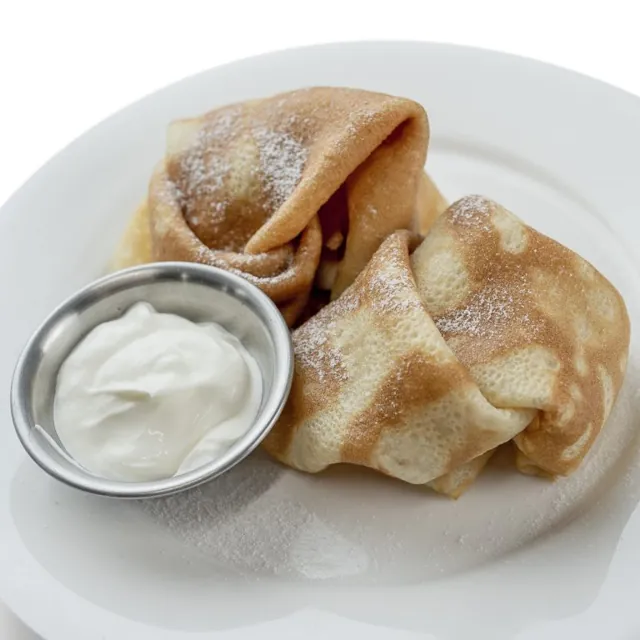
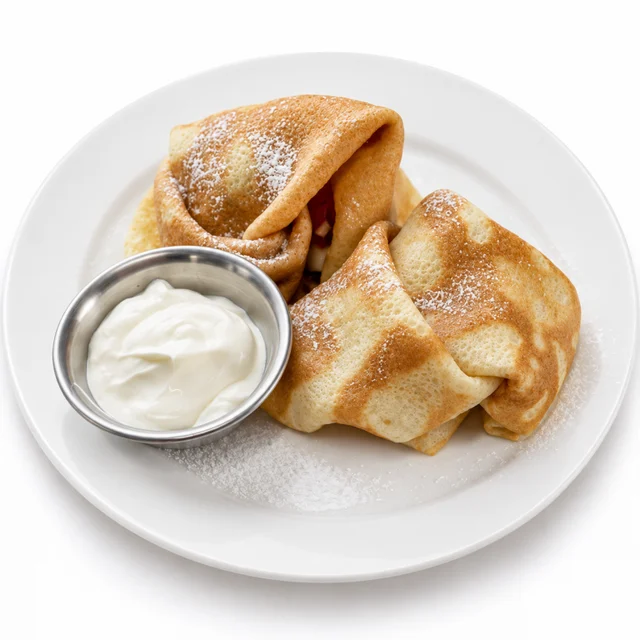
11

diff --git a/menu.html b/menu.html
@@ -402,6 +402,17 @@
           <p class="dish-card__desc">Редис, свежий огурчик, микс салата, томаты черри, куриное яйцо под йогуртовой заправкой</p>
         </div>
       </div>
+      <div class="dish-card">
+        <div class="dish-card__photo"><img src="images/menu/syrnye-makarony.webp" alt="Сырные макароны с колбаской Пепперони" loading="lazy" width="640" height="640"></div>
+        <div class="dish-card__body">
+          <h3 class="dish-card__title">Сырные макароны <small class="dish-card__sub">с колбаской Пепперони</small></h3>
+          <div class="dish-card__meta">
+            <span class="dish-card__price">270 ₽</span>
+            <span class="dish-card__weight">200 г</span>
+          </div>
+          <p class="dish-card__desc">Макароны, колбаски Пепперони, сливки, сыр «Чеддер»</p>
+        </div>
+      </div>
     </div>
   </div>
   <div class="menu-category" data-menu-category="holodnye-zakuski" id="holodnye-zakuski">
@@ -419,7 +430,7 @@
         </div>
       </div>
       <div class="dish-card">
-        <div class="dish-card__photo"><img src="images/menu/syrnaya-tarelka.webp" alt="Сырная тарелка" loading="lazy" width="640" height="640"></div>
+        <div class="dish-card__photo"><img src="images/menu/syrnaya-tarelka.webp?v=2" alt="Сырная тарелка" loading="lazy" width="640" height="640"></div>
         <div class="dish-card__body">
           <h3 class="dish-card__title">Сырная тарелка</h3>
           <div class="dish-card__meta">
@@ -430,7 +441,7 @@
         </div>
       </div>
       <div class="dish-card">
-        <div class="dish-card__photo"><img src="images/menu/myasnaya-tarelka.webp" alt="Мясная тарелка" loading="lazy" width="640" height="640"></div>
+        <div class="dish-card__photo"><img src="images/menu/myasnaya-tarelka.webp?v=2" alt="Мясная тарелка" loading="lazy" width="640" height="640"></div>
         <div class="dish-card__body">
           <h3 class="dish-card__title">Мясная тарелка</h3>
           <div class="dish-card__meta">
@@ -441,7 +452,7 @@
         </div>
       </div>
       <div class="dish-card">
-        <div class="dish-card__photo"><img src="images/menu/ovoschnaya-tarelka.webp" alt="Овощная тарелка" loading="lazy" width="640" height="640"></div>
+        <div class="dish-card__photo"><img src="images/menu/ovoschnaya-tarelka.webp?v=2" alt="Овощная тарелка" loading="lazy" width="640" height="640"></div>
         <div class="dish-card__body">
           <h3 class="dish-card__title">Овощная тарелка</h3>
           <div class="dish-card__meta">
@@ -713,9 +724,9 @@
         </div>
       </div>
       <div class="dish-card">
-        <div class="dish-card__photo"><img src="images/menu/rebryshki-v-medovo-gorchichnom-souse.webp" alt="Жареные свиные рёбра с бэби картофелем в соусе и лепёшка роти" loading="lazy" width="640" height="640"></div>
+        <div class="dish-card__photo"><img src="images/menu/zharenye-svinye-rebra.webp" alt="Жареные свиные рёбра с бэби картофелем в соусе и лепёшкой роти" loading="lazy" width="640" height="640"></div>
         <div class="dish-card__body">
-          <h3 class="dish-card__title">Жареные свиные рёбра с бэби картофелем в соусе и лепёшка роти</h3>
+          <h3 class="dish-card__title">Жареные свиные рёбра <small class="dish-card__sub">с бэби картофелем в соусе и лепёшка роти</small></h3>
           <div class="dish-card__meta">
             <span class="dish-card__price">470 ₽</span>
             <span class="dish-card__weight">310/40 г</span>
@@ -869,6 +880,7 @@
             <span class="dish-card__price">400 ₽</span>
             <span class="dish-card__weight">290 г</span>
           </div>
+          <p class="dish-card__desc">Спагетти с беконом и яичным желтком в сливочном соусе</p>
         </div>
       </div>
     </div>
@@ -1041,7 +1053,7 @@
         </div>
       </div>
       <div class="dish-card">
-        <div class="dish-card__photo"><img src="images/menu/sendvich-s-kurinym-file.webp" alt="Сэндвич с куриным филе" loading="lazy" width="640" height="640"></div>
+        <div class="dish-card__photo"><img src="images/menu/sendvich-s-kurinym-file.webp?v=2" alt="Сэндвич с куриным филе" loading="lazy" width="640" height="640"></div>
         <div class="dish-card__body">
           <h3 class="dish-card__title">Сэндвич с куриным филе</h3>
           <div class="dish-card__meta">
@@ -1063,7 +1075,7 @@
         </div>
       </div>
       <div class="dish-card">
-        <div class="dish-card__photo"><img src="images/menu/burger-s-kurinym-file-fri.webp" alt="Бургер с куриным филе фри" loading="lazy" width="640" height="640"></div>
+        <div class="dish-card__photo"><img src="images/menu/burger-s-kurinym-file-fri.webp?v=2" alt="Бургер с куриным филе фри" loading="lazy" width="640" height="640"></div>
         <div class="dish-card__body">
           <h3 class="dish-card__title">Бургер с куриным филе фри</h3>
           <div class="dish-card__meta">
@@ -1074,7 +1086,7 @@
         </div>
       </div>
       <div class="dish-card">
-        <div class="dish-card__photo"><img src="images/menu/burger-s-myasnoy-kotletkoy.webp" alt="Бургер с мясной котлеткой" loading="lazy" width="640" height="640"></div>
+        <div class="dish-card__photo"><img src="images/menu/burger-s-myasnoy-kotletkoy.webp?v=2" alt="Бургер с мясной котлеткой" loading="lazy" width="640" height="640"></div>
         <div class="dish-card__body">
           <h3 class="dish-card__title">Бургер с мясной котлеткой</h3>
           <div class="dish-card__meta">
@@ -1122,6 +1134,39 @@
           <p class="dish-card__desc">Куриный шашлык, колбаски купаты, болгарский перец, кебаб-чичи, рёбрышки гриль, цукини, картофель по-деревенски, баклажаны, соус BBQ, соус Тар-тар, соус томатный, зелень</p>
         </div>
       </div>
+      <div class="dish-card">
+        <div class="dish-card__photo"><img src="images/menu/syrnaya-tarelka.webp?v=2" alt="Сырная тарелка" loading="lazy" width="640" height="640"></div>
+        <div class="dish-card__body">
+          <h3 class="dish-card__title">Сырная тарелка</h3>
+          <div class="dish-card__meta">
+            <span class="dish-card__price">540 ₽</span>
+            <span class="dish-card__weight">190/60 г</span>
+          </div>
+          <p class="dish-card__desc">Сыр пармезан, дор-блю, чеддер, копчёный сулугуни, виноград, грецкий орех, мёд</p>
+        </div>
+      </div>
+      <div class="dish-card">
+        <div class="dish-card__photo"><img src="images/menu/myasnaya-tarelka.webp?v=2" alt="Мясная тарелка" loading="lazy" width="640" height="640"></div>
+        <div class="dish-card__body">
+          <h3 class="dish-card__title">Мясная тарелка</h3>
+          <div class="dish-card__meta">
+            <span class="dish-card__price">580 ₽</span>
+            <span class="dish-card__weight">200/50/40 г</span>
+          </div>
+          <p class="dish-card__desc">Буженина, карбонад, рулет куриный, хрен сливочный, огурец маринованный, помидор черри, зелень</p>
+        </div>
+      </div>
+      <div class="dish-card">
+        <div class="dish-card__photo"><img src="images/menu/ovoschnaya-tarelka.webp?v=2" alt="Овощная тарелка" loading="lazy" width="640" height="640"></div>
+        <div class="dish-card__body">
+          <h3 class="dish-card__title">Овощная тарелка</h3>
+          <div class="dish-card__meta">
+            <span class="dish-card__price">290 ₽</span>
+            <span class="dish-card__weight">220/40 г</span>
+          </div>
+          <p class="dish-card__desc">Огурец свежий, томаты, редис, перец болгарский, зелень</p>
+        </div>
+      </div>
     </div>
   </div>
   <div class="menu-category" data-menu-category="bliny" id="bliny">
@@ -1149,7 +1194,7 @@
         </div>
       </div>
       <div class="dish-card">
-        <div class="dish-card__photo"><img src="images/menu/bliny-s-fruktovym-dzhemom.webp" alt="Блины с фруктовым джемом" loading="lazy" width="640" height="640"></div>
+        <div class="dish-card__photo"><img src="images/menu/bliny-s-fruktovym-dzhemom.webp?v=2" alt="Блины с фруктовым джемом" loading="lazy" width="640" height="640"></div>
         <div class="dish-card__body">
           <h3 class="dish-card__title">Блины с фруктовым джемом</h3>
           <div class="dish-card__meta">
@@ -1160,7 +1205,7 @@
         </div>
       </div>
       <div class="dish-card">
-        <div class="dish-card__photo"><img src="images/menu/bliny-so-smetanoy.webp" alt="Блины со сметаной" loading="lazy" width="640" height="640"></div>
+        <div class="dish-card__photo"><img src="images/menu/bliny-so-smetanoy.webp?v=2" alt="Блины со сметаной" loading="lazy" width="640" height="640"></div>
         <div class="dish-card__body">
           <h3 class="dish-card__title">Блины со сметаной</h3>
           <div class="dish-card__meta">
@@ -1171,7 +1216,7 @@
         </div>
       </div>
       <div class="dish-card">
-        <div class="dish-card__photo"><img src="images/menu/bliny-s-solenoy-karamel-yu.webp" alt="Блины с солёной карамелью" loading="lazy" width="640" height="640"></div>
+        <div class="dish-card__photo"><img src="images/menu/bliny-s-solenoy-karamel-yu.webp?v=2" alt="Блины с солёной карамелью" loading="lazy" width="640" height="640"></div>
         <div class="dish-card__body">
           <h3 class="dish-card__title">Блины с солёной карамелью</h3>
           <div class="dish-card__meta">

diff --git a/styles.css b/styles.css
@@ -1565,3 +1565,6 @@ html.vm-open{overflow:hidden}
 .tk-ex__lbl{font-weight:800}
 .tk-ex__sum{margin-top:auto!important;padding-top:10px;border-top:1px dashed var(--line);font-size:18px;color:var(--purple-1)}
 @media(max-width:860px){.tk-ex__grid{grid-template-columns:1fr;max-width:460px;margin:0 auto}}
+
+/* подзаголовок блюда */
+.dish-card__sub{display:block;margin-top:4px;font-size:13px;font-weight:700;text-transform:none;letter-spacing:0;opacity:.75}
